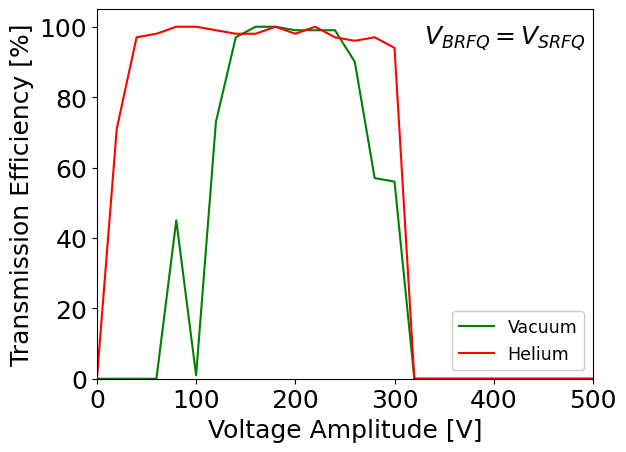
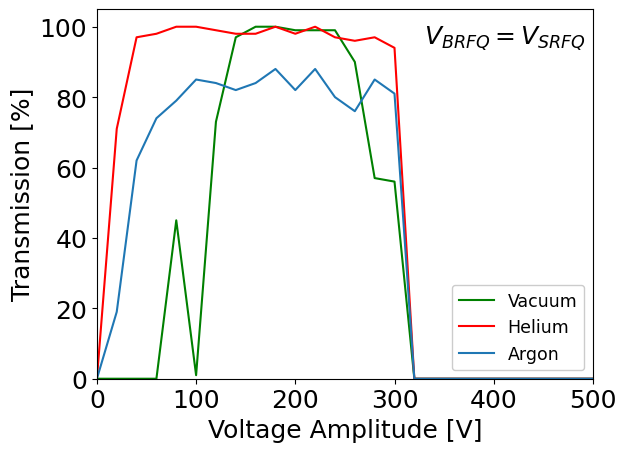
optimal argon

diff --git a/bendstraight/bendstraight.py b/bendstraight/bendstraight.py
@@ -4,19 +4,20 @@ import matplotlib.gridspec as gridspec
 
 volts, fileVac = np.loadtxt("bs_Vac.txt" , dtype='f', unpack=True)
 volts, fileHe = np.loadtxt("bs_He.txt" , dtype='f', unpack=True)
-# volts, fileAr = np.loadtxt("bs_Ar.txt" , dtype='f', unpack=True)
+volts, fileAr = np.loadtxt("bs_Ar.txt" , dtype='f', unpack=True)
 
 plt.rcParams['font.size'] = 18
 
 plt.plot(volts, fileVac, color='green', label= 'Vacuum')
 plt.plot(volts, fileHe, color='red', label= 'Helium')
-#plt.plot(volts, fileAr, color='blue', label= 'Argon')
+plt.plot(volts, fileAr, color='C0', label= 'Argon')
 plt.xlabel('Voltage Amplitude [V]')
-plt.ylabel('Transmission Efficiency [%]')
+plt.ylabel('Transmission [%]')
 plt.xlim(0,500)
 plt.ylim(0,105)
 plt.legend(fontsize='x-small', loc=4, frameon=True,fancybox=True,framealpha=1)
 plt.text(330,95,'$V_{BRFQ}=V_{SRFQ}$')
+# plt.text(335,88,'Optimal DC voltages', fontsize='xx-small')
 
 plt.savefig("bendstraight.pdf", bbox_inches = 'tight', pad_inches = 0.1, transparent=True)
 plt.savefig("bendstraight.png", bbox_inches = 'tight', pad_inches = 0.1)
